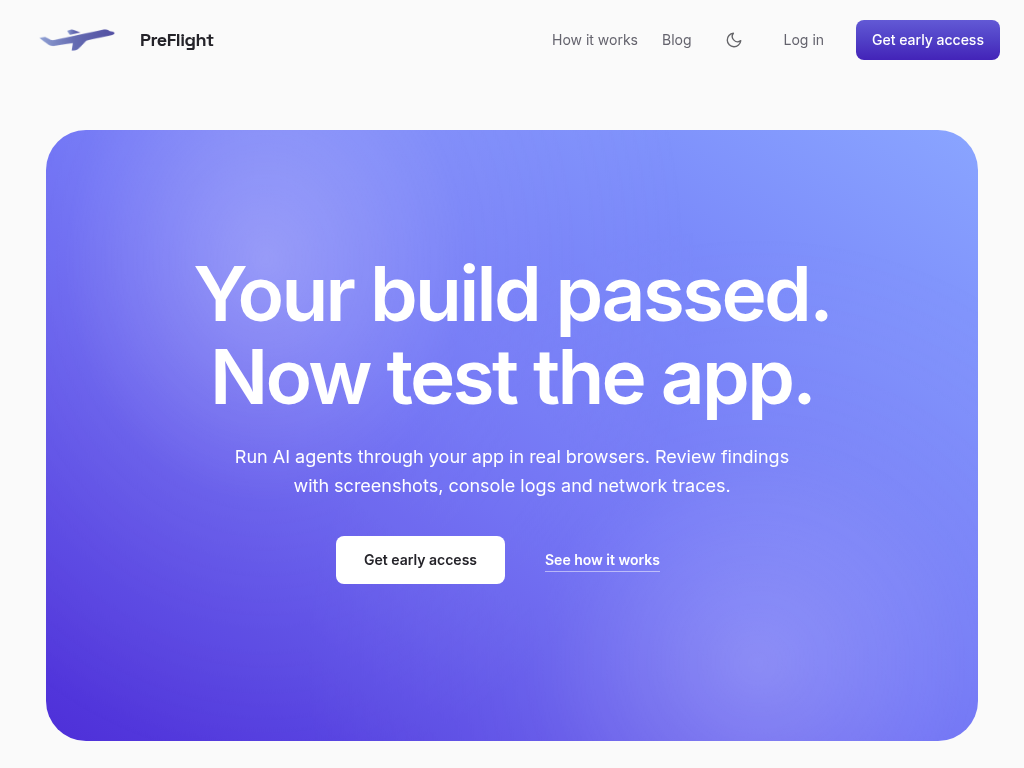
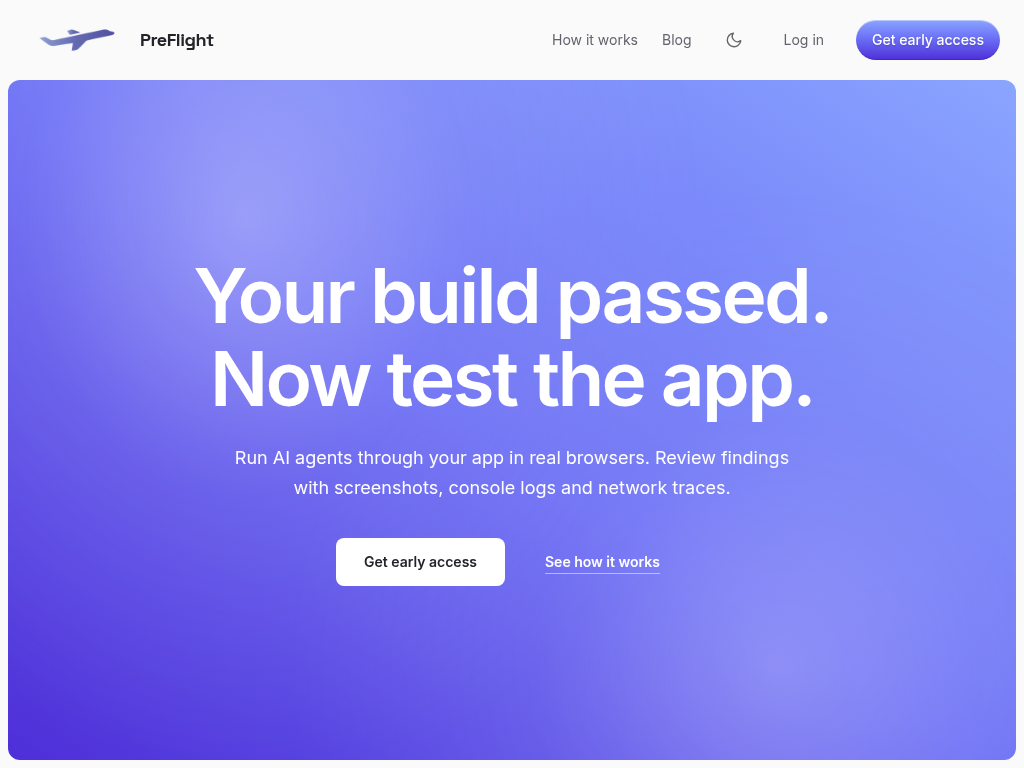
Expand the cloud window and remove primary button glow

diff --git a/components/Hero.tsx b/components/Hero.tsx
@@ -1,7 +1,7 @@
 import PlasmaSquare from "./PlasmaSquare";
 
 /* ------------------------------------------------------------------ */
-/* Hero — one big square filling ~96% of the viewport, rendered as     */
+/* Hero — a nearly edge-to-edge cloud window below the navigation.    */
 /* living plasma in the classic gradient's blues (#4e2fd8 → #6a6df5   */
 /* → #8aa5ff, diagonal to top-right). The square is identical in both  */
 /* themes (white headline stays on the plasma); only the page behind   */
@@ -14,9 +14,9 @@ export default function Hero() {
       id="top"
       className="relative flex min-h-svh flex-col overflow-x-clip"
     >
-      <div className="flex min-w-0 flex-1 px-[2vw] pb-[2vh] pt-[84px]">
+      <div className="flex min-w-0 flex-1 px-2 pb-2 pt-20">
         <div
-          className="relative flex min-w-0 w-full flex-1 items-center justify-center rounded-[1.75rem] md:rounded-[2.5rem]"
+          className="relative flex min-w-0 w-full flex-1 items-center justify-center rounded-xl"
           style={{ background: "none", border: 0, boxShadow: "none" }}
         >
           {/* The square itself: living plasma in the classic gradient's

diff --git a/app/globals.css b/app/globals.css
@@ -145,9 +145,7 @@ body {
   background-image: linear-gradient(180deg, #8aa5ff 0%, #6a6df5 48%, #4e2fd8 100%);
   box-shadow:
     inset 0 1px 0 rgba(255, 255, 255, 0.4),
-    inset 0 -1px 0 rgba(28, 18, 92, 0.22),
-    0 12px 28px -10px rgba(106, 109, 245, 0.6),
-    0 3px 8px -3px rgba(78, 47, 216, 0.4);
+    inset 0 -1px 0 rgba(28, 18, 92, 0.22);
   text-shadow: 0 1px 2px rgba(40, 28, 120, 0.28);
   color: #fff;
 }

diff --git a/components/PlasmaSquare.tsx b/components/PlasmaSquare.tsx
@@ -27,9 +27,9 @@ void main() {
 `;
 
 /* Fixed window insets in CSS pixels, shared by WebGL and the fallback. */
-const SIDE_BLEED = 26;
-const TOP_BLEED = 46;
-const BOTTOM_BLEED = 12;
+const SIDE_BLEED = 0;
+const TOP_BLEED = 0;
+const BOTTOM_BLEED = 0;
 const SCROLL_STRENGTH = 0.5;
 
 const FRAG = `

diff --git a/docs/landing-review/README.md b/docs/landing-review/README.md
@@ -8,7 +8,7 @@ Agent summaries also appear on the opening checkout scene and the final fix scen
 
 The browser, evidence, diagnosis and PR still form one centered pinned sequence. Evidence gets four scroll beats: fan opening, screenshot forward, console forward and network forward. The page releases after the PR. Wheel, trackpad, touch and keyboard input now remain native: no gesture is consumed, no input is prevented and no per-step lock is applied. The runway is longer (1000svh), giving each beat more scroll distance and making accidental skips less likely. After 260ms idle, the page settles only when already within 80px (or 10% of a viewport, whichever is smaller) of a beat center. The small settle happens without an ongoing page-scroll animation that could catch the next gesture. Movement between centers stays where the user left it; fresh input cancels pending settling. Snapping remains restricted to the pinned range and disabled during touch contact, reduced motion and short-viewport fallbacks. The floating site nav stays hidden during the sequence.
 
-The hero cloud window now has a fixed rounded-rectangle outline in both WebGL and the CSS fallback. Only its interior clouds move; no edge displacement or border-radius morph runs. [WebGL view](fixed-cloud-window.png) · [CSS fallback](fixed-cloud-fallback.png).
+The hero cloud window now has a fixed rounded-rectangle outline in both WebGL and the CSS fallback. It fills the space below the navigation with 8px side/bottom gutters and 12px corners, with no extra renderer insets. The blue primary buttons retain inset highlights but have no outer glow. [Six viewport/theme checks](wide-cloud-verification.jsonl). Only its interior clouds move; no edge displacement or border-radius morph runs. [WebGL view](fixed-cloud-window.png) · [CSS fallback](fixed-cloud-fallback.png).
 
 Reduced motion, JavaScript-disabled browsers and short viewports show the three cards in natural document flow, fully readable without animation. The code/logs and browser frame are built as HTML rather than squeezing wide screenshots into narrow cards.
 

diff --git a/docs/ui.md b/docs/ui.md
@@ -28,7 +28,7 @@ Shared Tailwind colors are defined in `app/globals.css`:
 - `text-muted`: tested secondary text in both themes; use it for dates and helpers instead of low-opacity ink or white.
 
 Use `btn-primary` for the original blue gradient primary actions: `#8aa5ff` →
-`#6a6df5` → `#4e2fd8`, with pill corners and the original inset/highlight shadows.
+`#6a6df5` → `#4e2fd8`, with pill corners and inset highlights only—no outer glow or drop shadow.
 This exact treatment is an explicit user preference; preserve it during style
 refinements. The later dark-purple stops (`#6259d5` / `#5141c7` / `#4323b8`)
 are not the requested original gradient.
@@ -53,6 +53,6 @@ Admin navigation is derived from `isAdminLogin` on the server and passed as a bo
 
 ## Landing motion
 
-The cloud window is a regular rounded rectangle. Clouds can move inside it; the outline must stay fixed in both WebGL and the CSS fallback.
+The cloud window is a regular rounded rectangle with 12px corners. It fills the space below the 80px navigation with 8px side/bottom gutters; do not add extra shader or fallback insets. Clouds can move inside it; the outline must stay fixed in both WebGL and the CSS fallback.
 
 The evidence sequence preserves native wheel, touch and keyboard scrolling. Make accidental skips less likely with enough scroll distance between beats. Do not consume gestures, discard momentum, prevent input defaults or enforce a per-step cooldown. Settling is proximity-only, confined to the animation, and has no running page-scroll tween that can catch new input; reduced motion and short viewports keep normal document flow.
